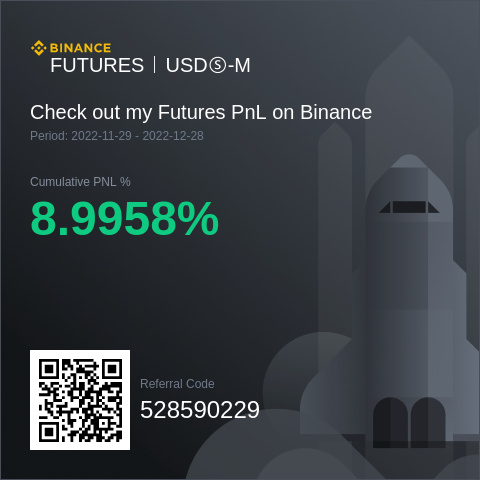
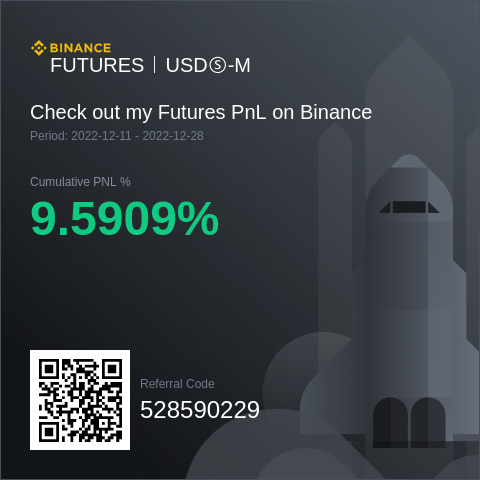
Updated PnL image

diff --git a/README.md b/README.md
@@ -14,6 +14,10 @@
 
     ![Image](./images/pnl.jpeg)
 
+    > In the period from 11th of December 2022, when the bot first went live, until 28th of December 2022 it produced a cummulative PnL of 9.59%
+
+    > Note this repository does not contain my full set of proprietary trading strategies, but only one of the strategies which make up my trading portfolio as an example for users. My full portfolio consists of a diversified collection of strategies to maximize risk adjusted returns.
+
 2. Backtesting
 
 	* A Backtest class serving as a template for backtesting any strategy you will implement.
